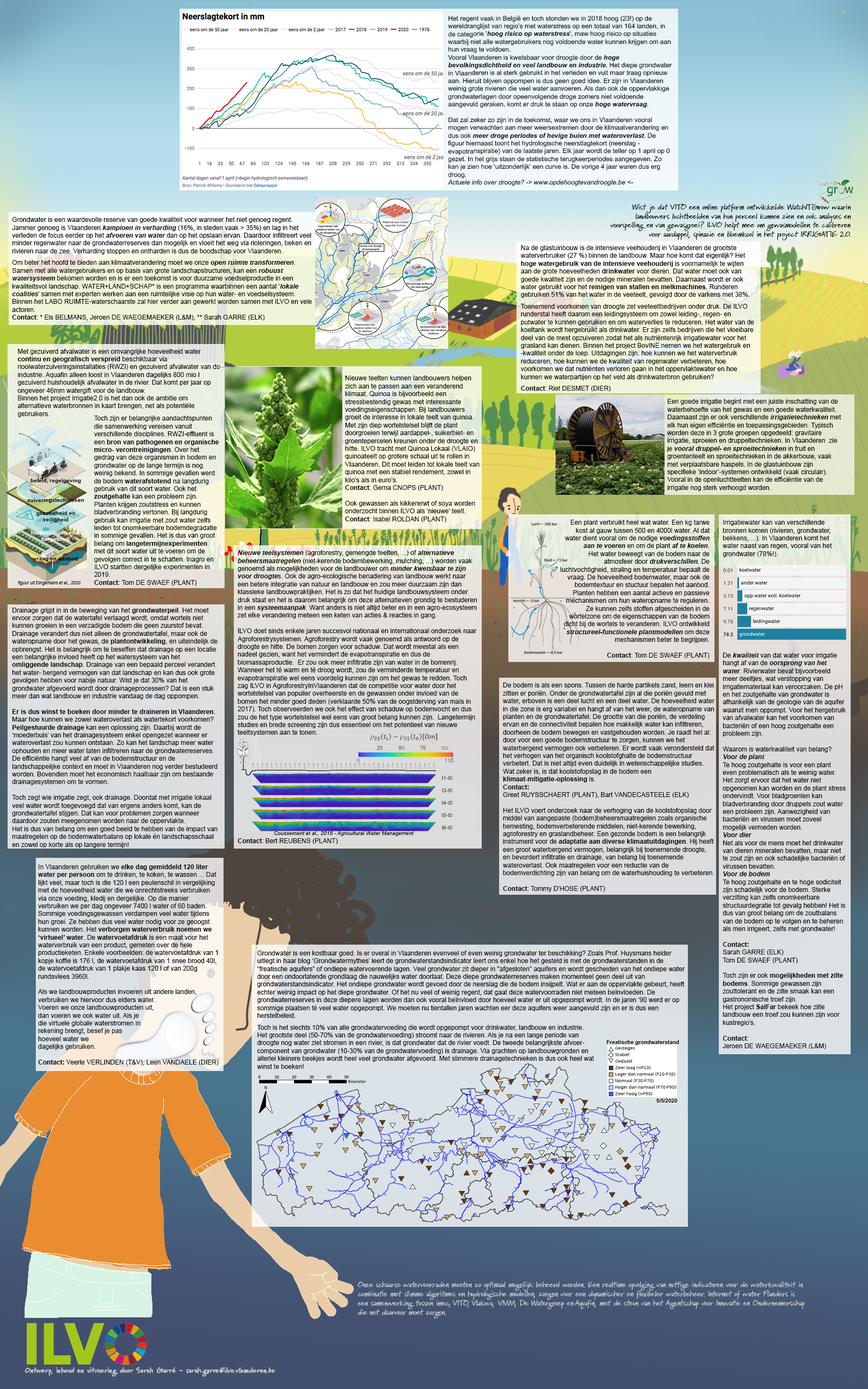
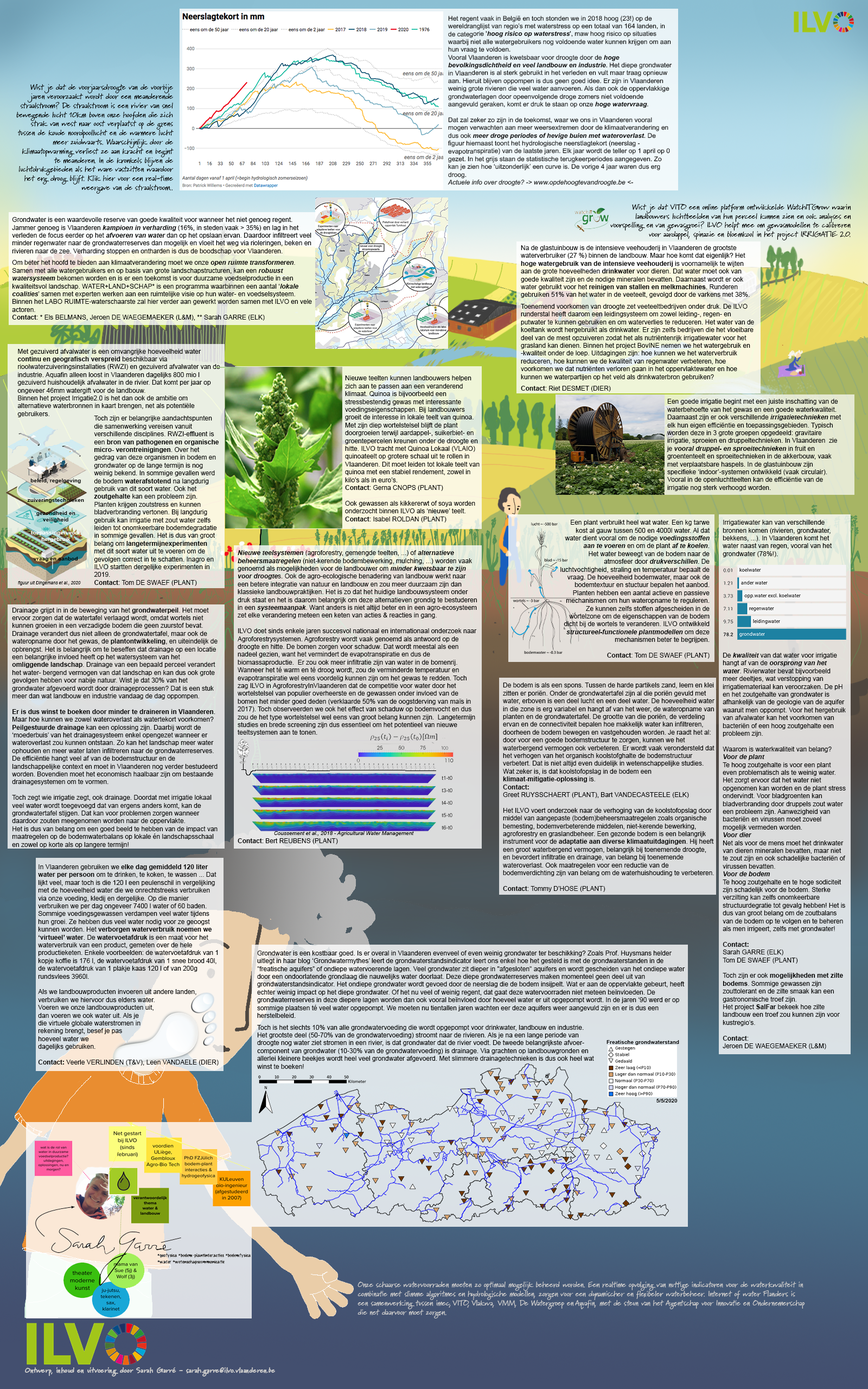
first version complete

diff --git a/stijl_water.css b/stijl_water.css
@@ -27,7 +27,7 @@ ul#flaps-content {
 }
 
 ul#flaps li {
- border: 1px #000;
+ border: 1px dashed#000;
  position: absolute;
 }
 ul#flaps-content li {
@@ -189,8 +189,8 @@ ul#flaps li#soil-management a:hover {
 
 #weetjeWIG {
  width: 580px;
- height: 140px;
- top: 310px;
+ height: 90px;
+ top: 355px;
  left: 1000px;
 }
 ul#flaps li#weetjeWIG a:hover {
@@ -207,7 +207,24 @@ ul#flaps li#weetjeWIG a:hover {
 ul#flaps li#weetjeIWF a:hover {
 	background-position: -655px -2350px;
 }
-
+#weetjeSS {
+ width: 300px;
+ height: 255px;
+ top: 100px;
+ left: 20px;
+}
+ul#flaps li#weetjeSS a:hover {
+	background-position: -20px -100px;
+}
+#sarah-garre{
+ width: 420px;
+ height: 350px;
+ top: 2080px;
+ left: 20px;
+}
+ul#flaps li#sarah-garre a:hover {
+	background-position: -47px -2080px;
+}
 	
 ul#flaps li a span {
  display: none;

diff --git a/index.html b/index.html
@@ -35,8 +35,11 @@
 			<span>Is er overal evenveel grondwater?</span></a></li>
 	<li id="water-footprint"><a href="https://pure.ilvo.be/portal/files/5873496/PR_171221_KVIV_studiedag_Water_footprint_dierlijke_productie_vf.pdf">
 		<span>Hoeveel water voor jouw eten?</span></a></li>
+	<li id="sarah-garre"><a href="https://www.linkedin.com/in/sarahgarre/">
+		<span>Wie is die Sarah Garré eigenlijk?!</span></a></li>
 	<li id="weetjeIWF"><a href="https://www.internetofwater.be/"><span>weetje</span></a></li>
 	<li id="weetjeWIG"><a href="https://watchitgrow.be/en"><span>weetje</span></a></li>
+	<li id="weetjeSS"><a href="https://www.netweather.tv/charts-and-data/jetstream"><span>weetje</span></a></li>
 	
 </ul>
 	
